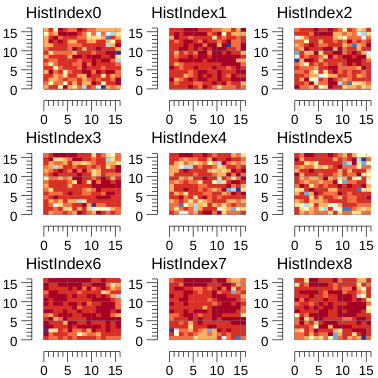
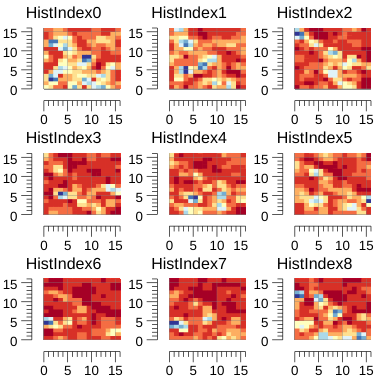
[WIP]answer_67ヒストグラムの表示を修正

diff --git a/Answer_61_70/answer_67.go b/Answer_61_70/answer_67.go
@@ -9,10 +9,9 @@ import (
 	"math"
 	"os"
 
-	"gonum.org/v1/plot"
-
 	"go-hep.org/x/hep/hbook"
 	"go-hep.org/x/hep/hplot"
+	"gonum.org/v1/plot"
 	"gonum.org/v1/plot/plotter"
 	"gonum.org/v1/plot/vg"
 	"gonum.org/v1/plot/vg/draw"
@@ -122,6 +121,10 @@ func main() {
 		// fmt.Println()
 	}
 
+	for _, row := range angle {
+		fmt.Println(row)
+	}
+
 	colorList := []color.RGBA{color.RGBA{0, 0, 255, 255},
 		color.RGBA{0, 255, 0, 255},
 		color.RGBA{255, 0, 0, 255},
@@ -146,36 +149,34 @@ func main() {
 	}
 
 	// answer_67ここから
-	cellSize := 8
-
-	cellHist := make(map[int]map[int]map[int]float64)
-	cellNumX := W / cellSize
-	cellNumY := H / cellSize
-	for y := 0; y < cellNumY; y++ {
-		cellHist[y] = make(map[int]map[int]float64)
-		for x := 0; x < cellNumX; x++ {
-			cellHist[y][x] = make(map[int]float64)
-			for i := 0; i < 9; i++ {
-				cellHist[y][x][i] = 0.0
-			}
+	N := 8
+	HH := H / N
+	HW := W / N
+	hist := make([][][]float64, HH)
+	for i := range hist {
+		hist[i] = make([][]float64, HW)
+		for j := range hist[i] {
+			hist[i][j] = make([]float64, 9)
 		}
 	}
+	fmt.Println(hist)
+	fmt.Println(len(hist), len(hist[0]), len(hist[0][0]))
 
-	// 8x8ピクセル(=セル16x16)の勾配方向ヒストグラムを作成
-	for cellIndexY := 0; cellIndexY < cellNumY; cellIndexY++ {
-		for cellIndexX := 0; cellIndexX < cellNumX; cellIndexX++ {
-			// fmt.Println("x", x, "y", y)
-			for y := 0; y < cellSize; y++ {
-				for x := 0; x < cellSize; x++ {
-					refY := cellIndexY*cellSize + y
-					refX := cellIndexX*cellSize + x
-					cellHist[cellIndexY][cellIndexX][int(angle[refY][refX])] += mag[refY][refX]
+	for y := 0; y < HH; y++ {
+		for x := 0; x < HW; x++ {
+			for j := 0; j < N; j++ {
+				for i := 0; i < N; i++ {
+					hist[y][x][int(angle[y*4+j][x*4+i])] += mag[y*4+j][x*4+i]
 				}
 			}
-			// fmt.Println(cellHist)
 		}
 	}
-	// fmt.Println(cellHist)
+
+	for _, row := range hist {
+		for _, rowrow := range row {
+			fmt.Println(rowrow)
+		}
+	}
 
 	// 2D-Histgramの描画処理
 	row, col := 3, 3
@@ -191,10 +192,10 @@ func main() {
 			histPlot.Title.Text = fmt.Sprintf("HistIndex%d", i)
 			// histPlot.X.Label.Text = "Cell IndexX"
 			// histPlot.Y.Label.Text = "Cell IndexY"
-			hist2D := hbook.NewH2D(cellNumX, 0, float64(cellNumX), cellNumY, 0, float64(cellNumY))
-			for cellIndexY := 0; cellIndexY < cellNumY; cellIndexY++ {
-				for cellIndexX := 0; cellIndexX < cellNumX; cellIndexX++ {
-					histVal := cellHist[cellIndexY][cellIndexX][i]
+			hist2D := hbook.NewH2D(HW, 0, float64(HW), HH, 0, float64(HH))
+			for cellIndexY := 0; cellIndexY < HH; cellIndexY++ {
+				for cellIndexX := 0; cellIndexX < HW; cellIndexX++ {
+					histVal := hist[cellIndexY][cellIndexX][i]
 					hist2D.Fill(float64(cellIndexX), float64(cellIndexY), histVal)
 					histPlot.Add(hplot.NewH2D(hist2D, nil))
 					histPlot.Add(plotter.NewGrid())
@@ -233,4 +234,5 @@ func main() {
 	if _, err := png.WriteTo(f); err != nil {
 		panic(err)
 	}
+
 }
